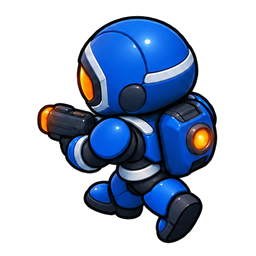
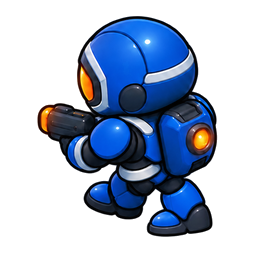
Correct northwest walk boot angle without changing other poses

diff --git a/docs/OUTPOST_ZERO_HANDOFF.md b/docs/OUTPOST_ZERO_HANDOFF.md
@@ -1,5 +1,12 @@
 # Outpost Zero — Current handoff (October 17, 2026)
 
+## October 24 — Northwest boot correction
+- Replaced only pilot_walk_nw_2.png with a targeted built-in image edit: bottom-left sheet cell's lower-right boot now has a left-pointing toe, right heel and narrow outsole edge instead of a broad sole facing the camera. Source exec-3e0c62b0-1a73-45e9-a6c0-84c2d3117967.png. Preserved 44% extraction scale and idle helmet registration. Other three NW frames unchanged.
+- Inspected 256px output; RGBA bounds (37,16,218,237), no clipping. Static pose improves the reported foot-angle defect. Continuous motion acceptance remains pending focused CI.
+- Generated SE/SW proportion revisions and an initial NW edit were rejected: they did not convincingly resolve the identified defects. No SE/SW replacement integrated. Walk/idle proportion continuity remains open and is next priority.
+- Simulator-only animation remains in effect. No TestFlight upload or reset.
+
+
 ## October 24 — Diagonal batch motion review
 - Revision 5b50708 passed build and focused visual jobs in run 40061393479; broad campaign capture correctly skipped. Downloaded walk artifact 12548390074 and reviewed NW, SE and SW MP4 samples at 4fps, using square crops and uniform resizing.
 - All three show changing leg poses while moving, consistent facing/weapon side, and restoration of the matching idle pose. This establishes working preview selection, not final animation quality.
